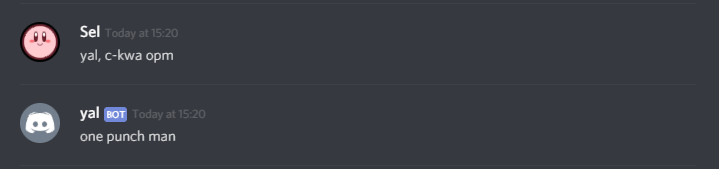
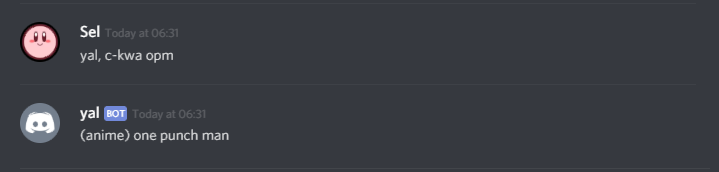
Updated README.md
+ added image for `change`
* updated image for `c-kwa`

diff --git a/README.md b/README.md
@@ -2,25 +2,41 @@
 
 YAL (YourAnimeList) is a [Discord](https://discordapp.com/) bot designed to provide quick access to [MyAnimeList](https://myanimelist.net/) ("MAL"). It relies on the JS (node) version of the [Jikan](https://jikan.moe/) API.
 
+> The in-discord help command is `"yal?"`.
+> 
+> (Please note that YAl was made for a small, French community.)
+
+---
+
 ## Commands
 
-To get YAL to respond, you want to start your message with `"yal,"` (case insensitive) then follow with the desired command.
+To get YAL to respond, you want to start your message with `"yal, "` (case insensitive) then follow with the desired command.
 
 ![c-kwa example](https://github.com/PictElm/YAL/raw/master/img/c-kwa.png)
 
 YAL only supports so many commands:
 
-1. `"c-kwa"`: if YAL know this term he will return its translation (from _weeb_ to _human_) else he will ask in its turn what this is so it can learn (**actually, not implemented as of RN &mdash; this command is quite useless&hellip;**).
+1. `"c-kwa"`: If YAL know this term he will return its translation (from _weeb_ to _human_) else he will ask in its turn what this is so it can learn.
+0. `"change"`: This command can be used to change the translation of a word. If YAL doesn't know the world your changing, a new entry will be created.
+0. `"oublie"`: To remove a word YAL knows, use this command. YAL can't forget a word he don't know.
 0. `"c-ou"`: YAL goes through the pain of looking-up MAL for an anime name you provided, then it sends a link. If this is not what you where looking for, you can answer negatively to get 5 other names.
 
-## Follow-up
-
-If YAL answered with a question, you should reply omitting the `"yal,"`.
+Example:
 
 ![c-ou example](https://github.com/PictElm/YAL/raw/master/img/c-ou.png)
 
-YAL can see when a response is _negative_ (e.g.: "no", "nop", "non", "nah", "nn"...) or _positive_ ("yes", "yep", "ye", "oui", "ui"...) or if it contains a number:
+## Follow-up
 
-![follow-up to c-ou](https://github.com/PictElm/YAL/raw/master/img/follow-up.png)
+If YAL answered with a question, you should reply omitting the `"yal,"`. YAL can see when a response is _negative_ (e.g.: "no", "nop", "non", "nah", "nn"...) or _positive_ ("yes", "yep", "ye", "oui", "ui"...) or if it contains a number:
+
+![follow-up example](https://github.com/PictElm/YAL/raw/master/img/follow-up.png)
 
 > Side note: YAL only listen for an answer from whoever he asked anything. If the next message of that user doesn't look like a valid answer, YAL should not take it into account and will consider the exchange as terminated (will stop waiting for an answer to its question).
+
+## Categories
+
+With any of the commands, you can precise what kind of object, as a category, you are referring to with parenthesis:
+
+![change example](https://github.com/PictElm/YAL/raw/master/img/change.png)
+
+> Categories are made for words that may have multiples translation depending on the media (anime/manga/...). Custom categories can be defined when entering a word with `"c-kwa"` (or `"change"`), but they should be wary of the fact that YAL will use the name of the category when researching MAL (using `"c-ou"`).
